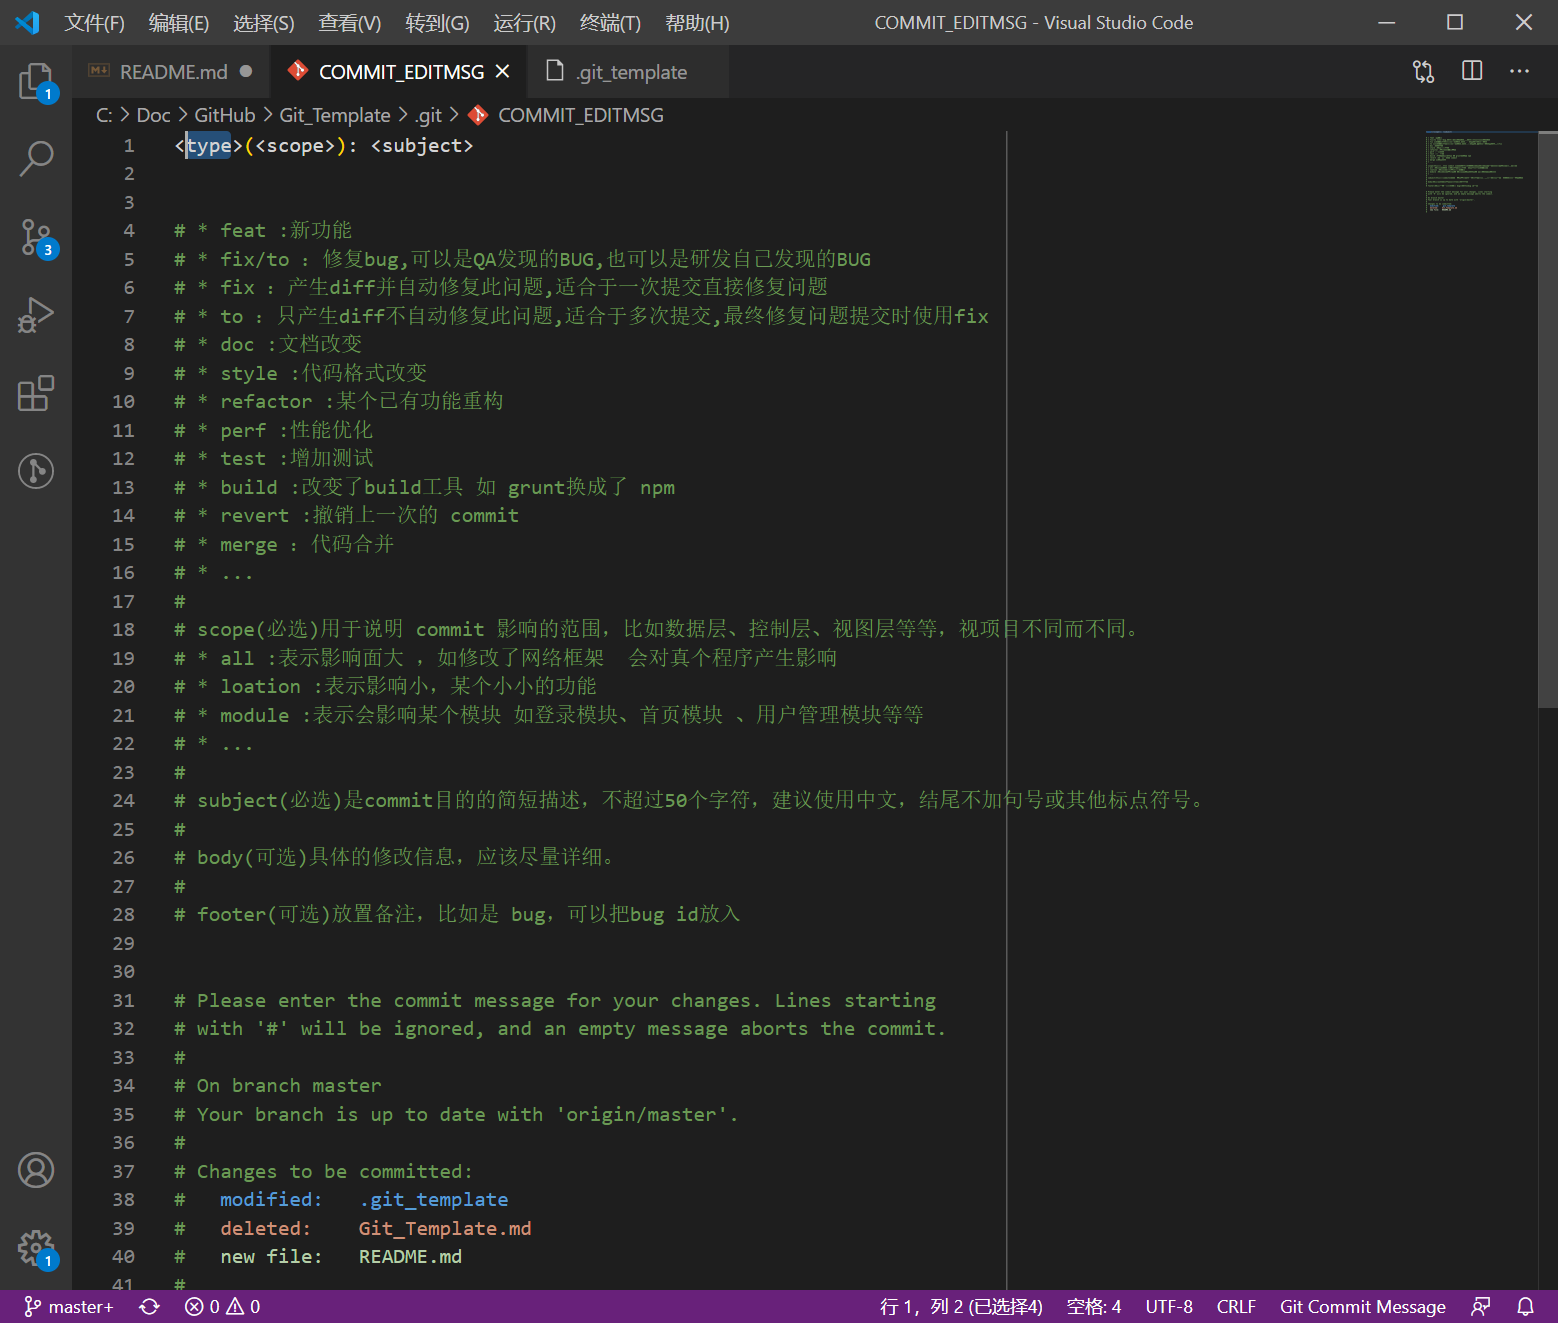
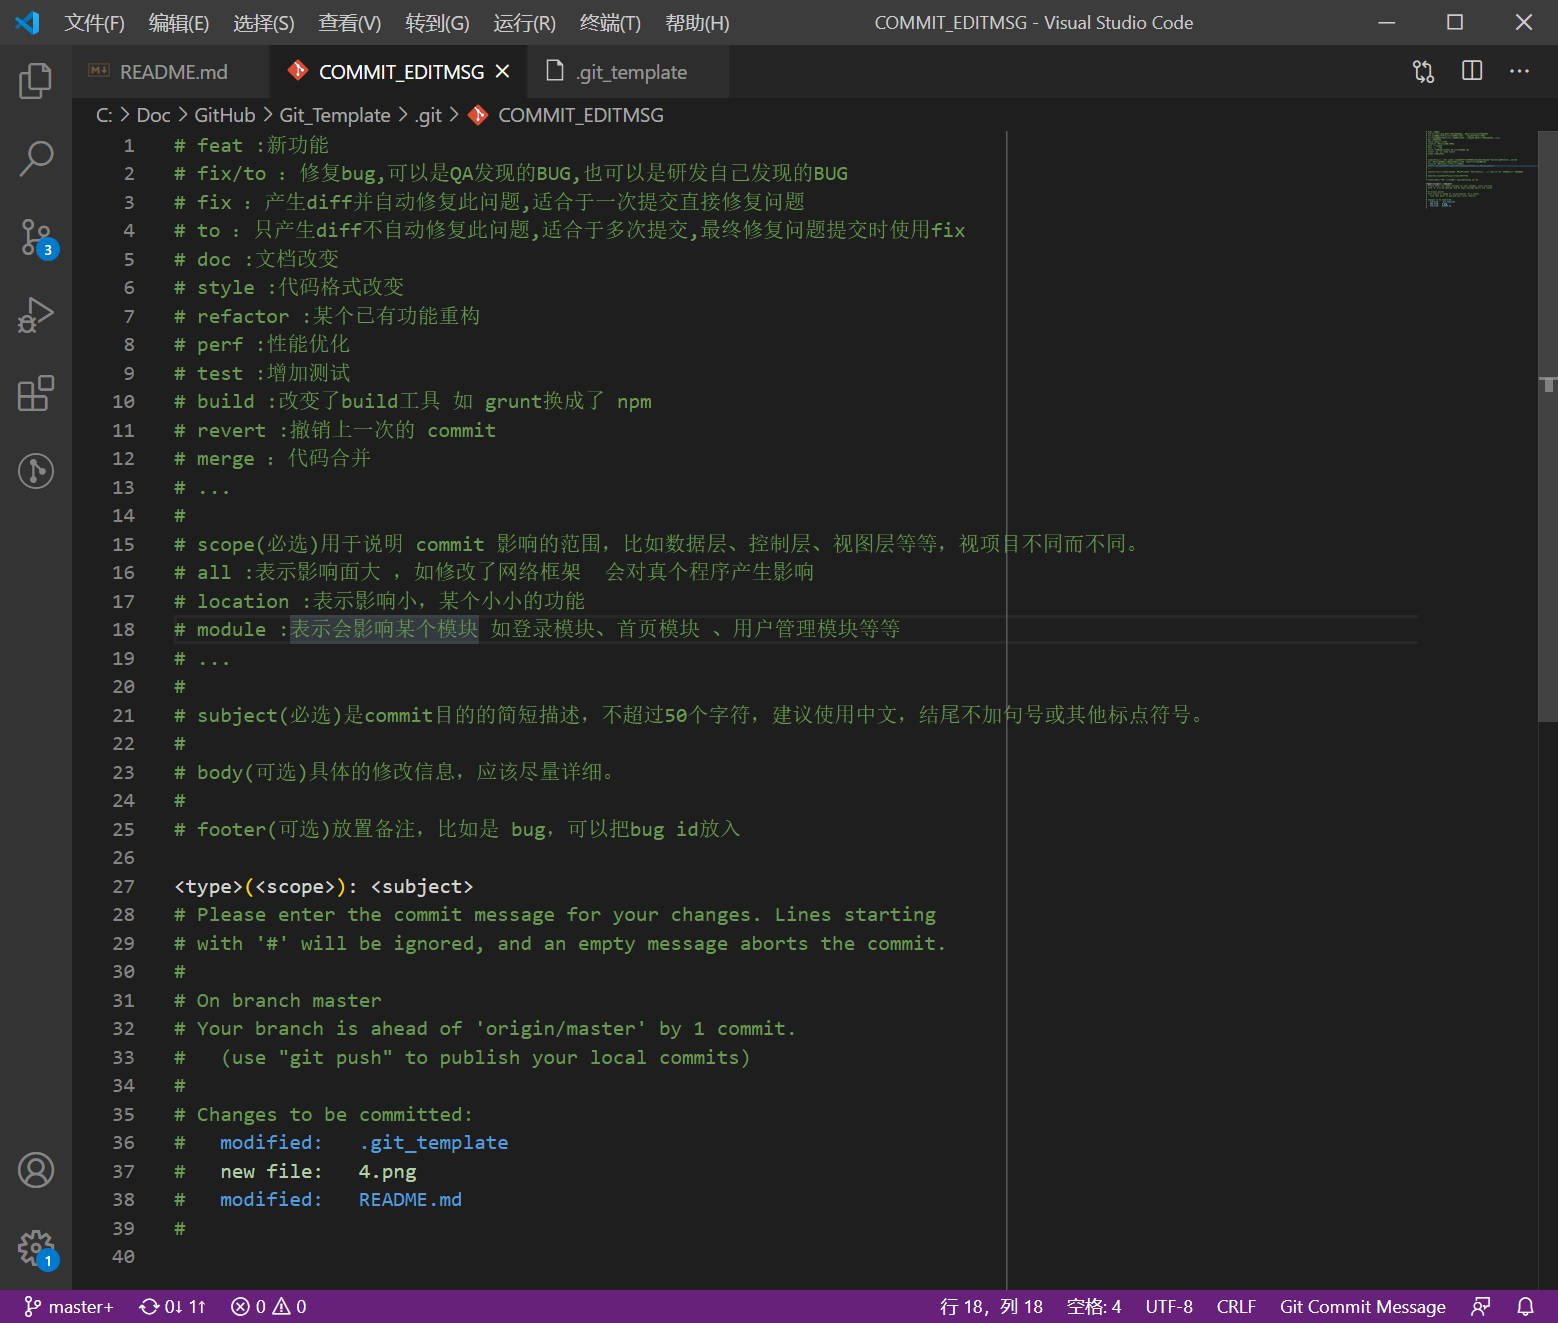
doc(location): 添加图片

diff --git a/README.md b/README.md
@@ -88,5 +88,9 @@ git config --global commit.template /Users/JunQiLiu/.git_template
 git commit
 ```
 将自动打开模板文档，可以在此输入你的提交信息：
+![](4.png)
 
+关闭后将完成提交:
+
+![](5.png)
 
